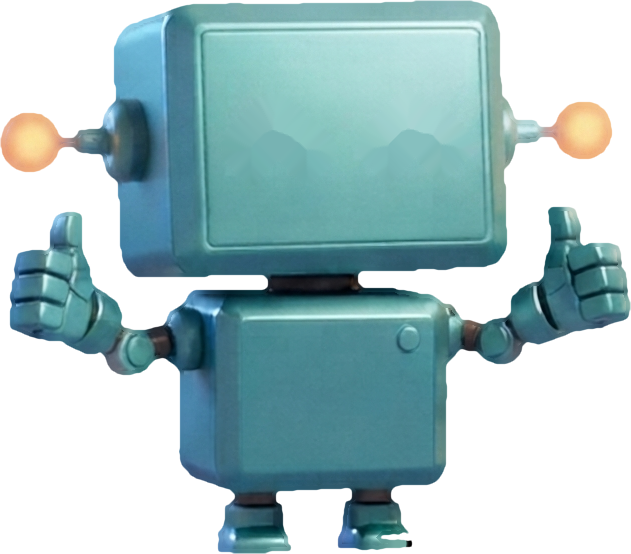
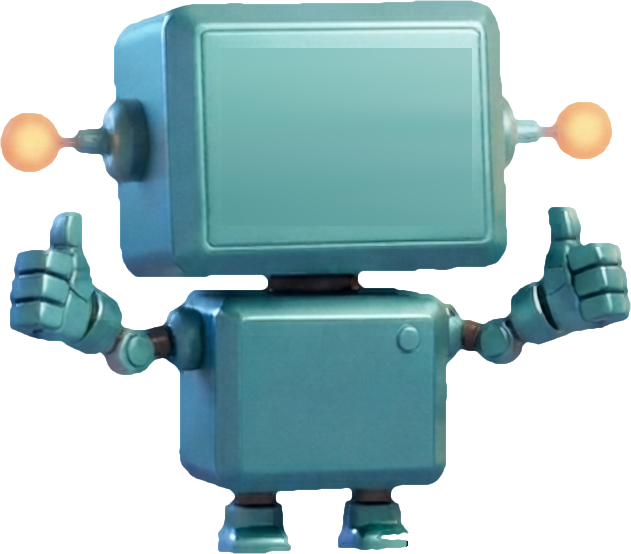
Robo neu: glatter Bildschirm, saubere Augen, Fuß repariert; Rand-Reste aller Freisteller entfernt
Claude-Session: https://claude.ai/code/session_01XuEgEKXH5CVDx1qfGUkAmV

Changed region(s): [[0.4517, 0.0614, 0.7528, 0.2762], [0.4216, 0.2148, 0.4517, 0.2455]]

diff --git a/public/sw.js b/public/sw.js
@@ -1,7 +1,7 @@
 'use strict';
 /* UNKNOWN – Service Worker: App-Hülle und Bilder offline zwischenspeichern.
    Spielstand läuft ausschließlich über WebSocket und wird nie gecacht. */
-const VERSION = 'unknown-v69';
+const VERSION = 'unknown-v70';
 const SHELL = ['/', '/css/style.css', '/js/app.js', '/data/sets.json', '/data/avatars.json', '/manifest.webmanifest', '/assets/logo.png'];
 
 self.addEventListener('install', (e) => {
